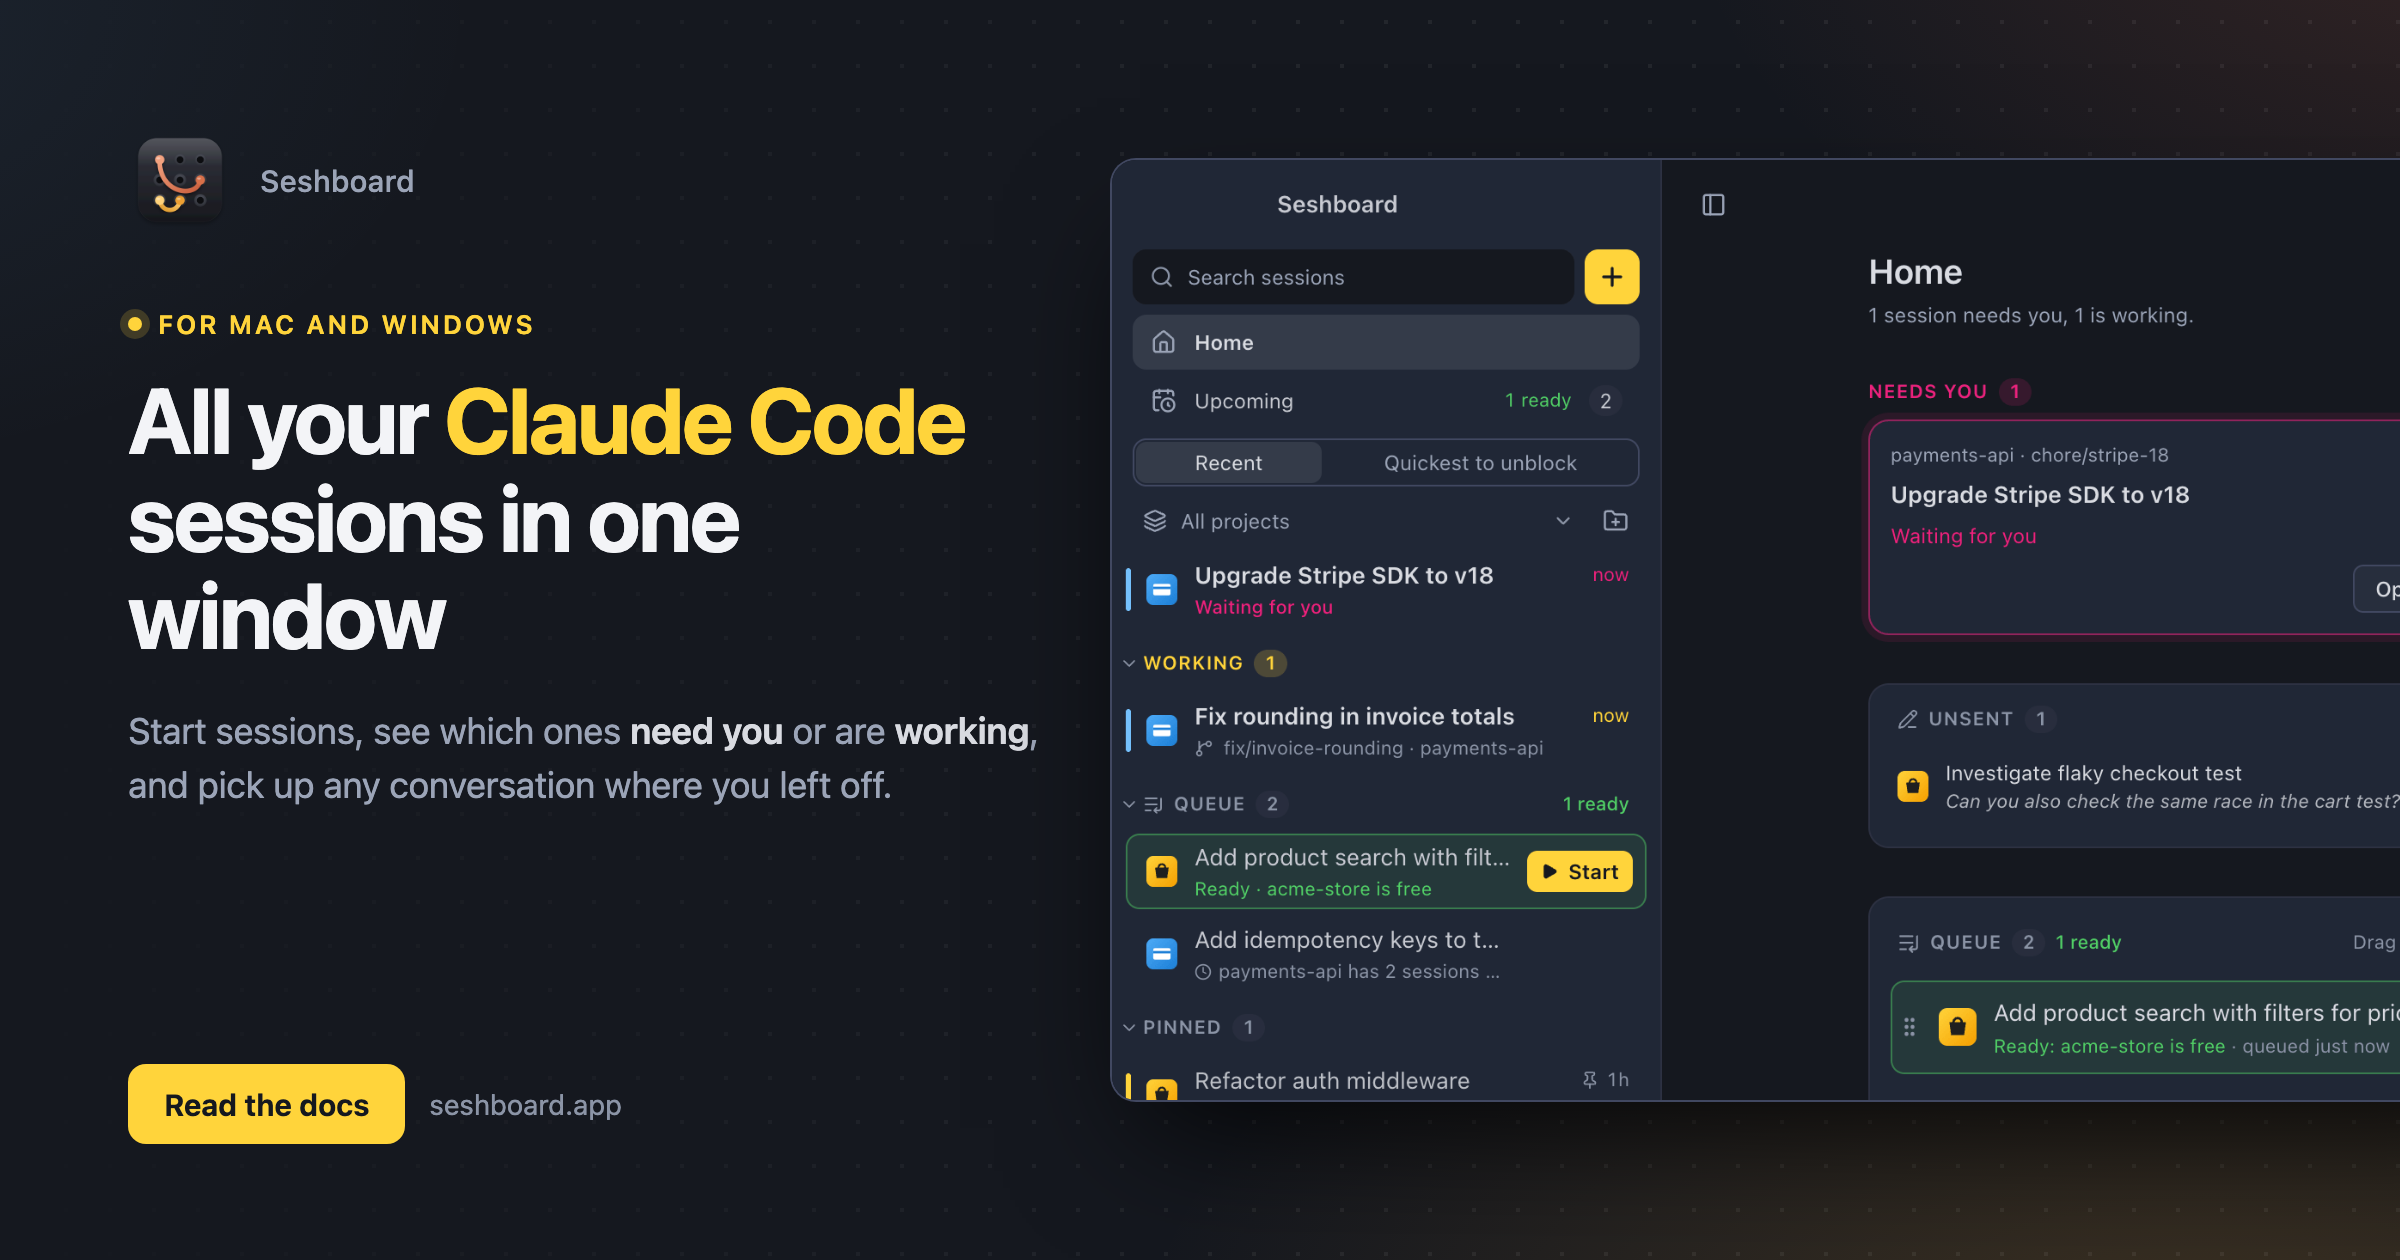
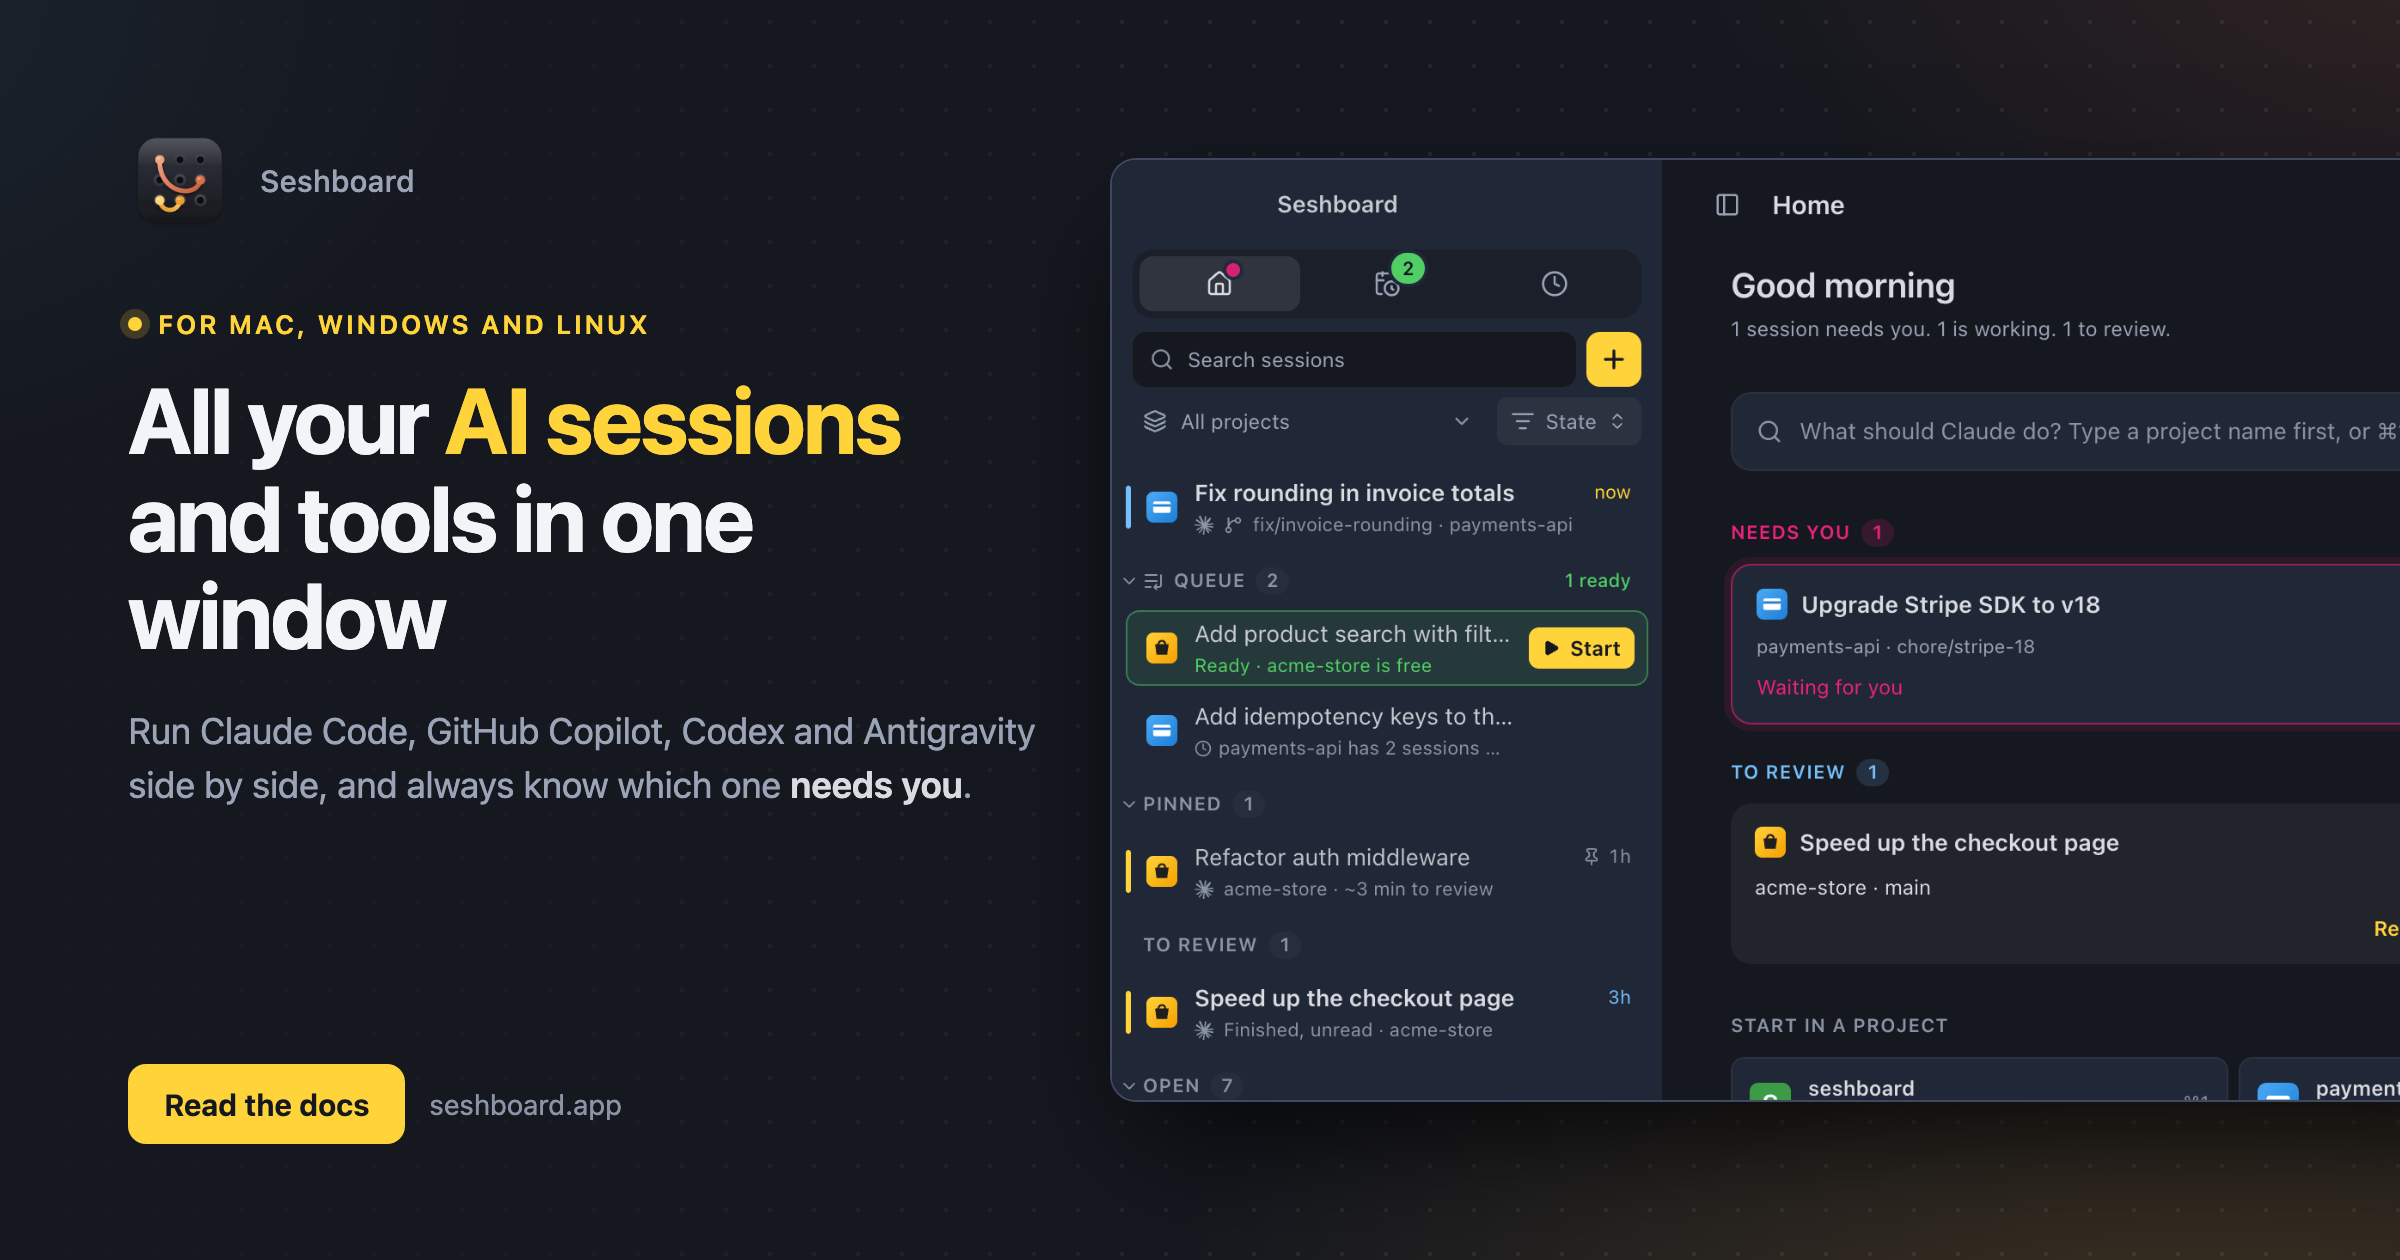
Website: the share image says all your AI sessions and tools, for Mac, Windows and Linux

diff --git a/social/website/index.html b/social/website/index.html
@@ -22,9 +22,9 @@
       <img src="../../apps/desktop/build/icon.png" alt="">
       <span class="name">Seshboard</span>
     </div>
-    <div class="eyebrow"><span class="dot"></span>For Mac and Windows</div>
-    <h1>All your <span class="hl">Claude Code</span> sessions in one window</h1>
-    <p class="sub">Start sessions, see which ones <b>need you</b> or are <b>working</b>, and pick up any conversation where you left off.</p>
+    <div class="eyebrow"><span class="dot"></span>For Mac, Windows and Linux</div>
+    <h1>All your <span class="hl">AI sessions</span> and tools in one window</h1>
+    <p class="sub">Run Claude Code, GitHub Copilot, Codex and Antigravity side by side, and always know which one <b>needs you</b>.</p>
   </div>
 
   <div class="cta">

diff --git a/social/website/posts.md b/social/website/posts.md
@@ -7,4 +7,4 @@ social/render.sh website
 node -e 'require("sharp")("social/website/image.png").resize(1200, 630).png().toFile("website/public/og.png")'
 ```
 
-Alt text: Seshboard for Mac: all your Claude Code sessions in one window, next to the Home view with a session that needs you, one that is working and the queue.
+Alt text: Seshboard for Mac, Windows and Linux: all your AI sessions and tools in one window, next to the Home view with a session that needs you, one that is working and the queue.
